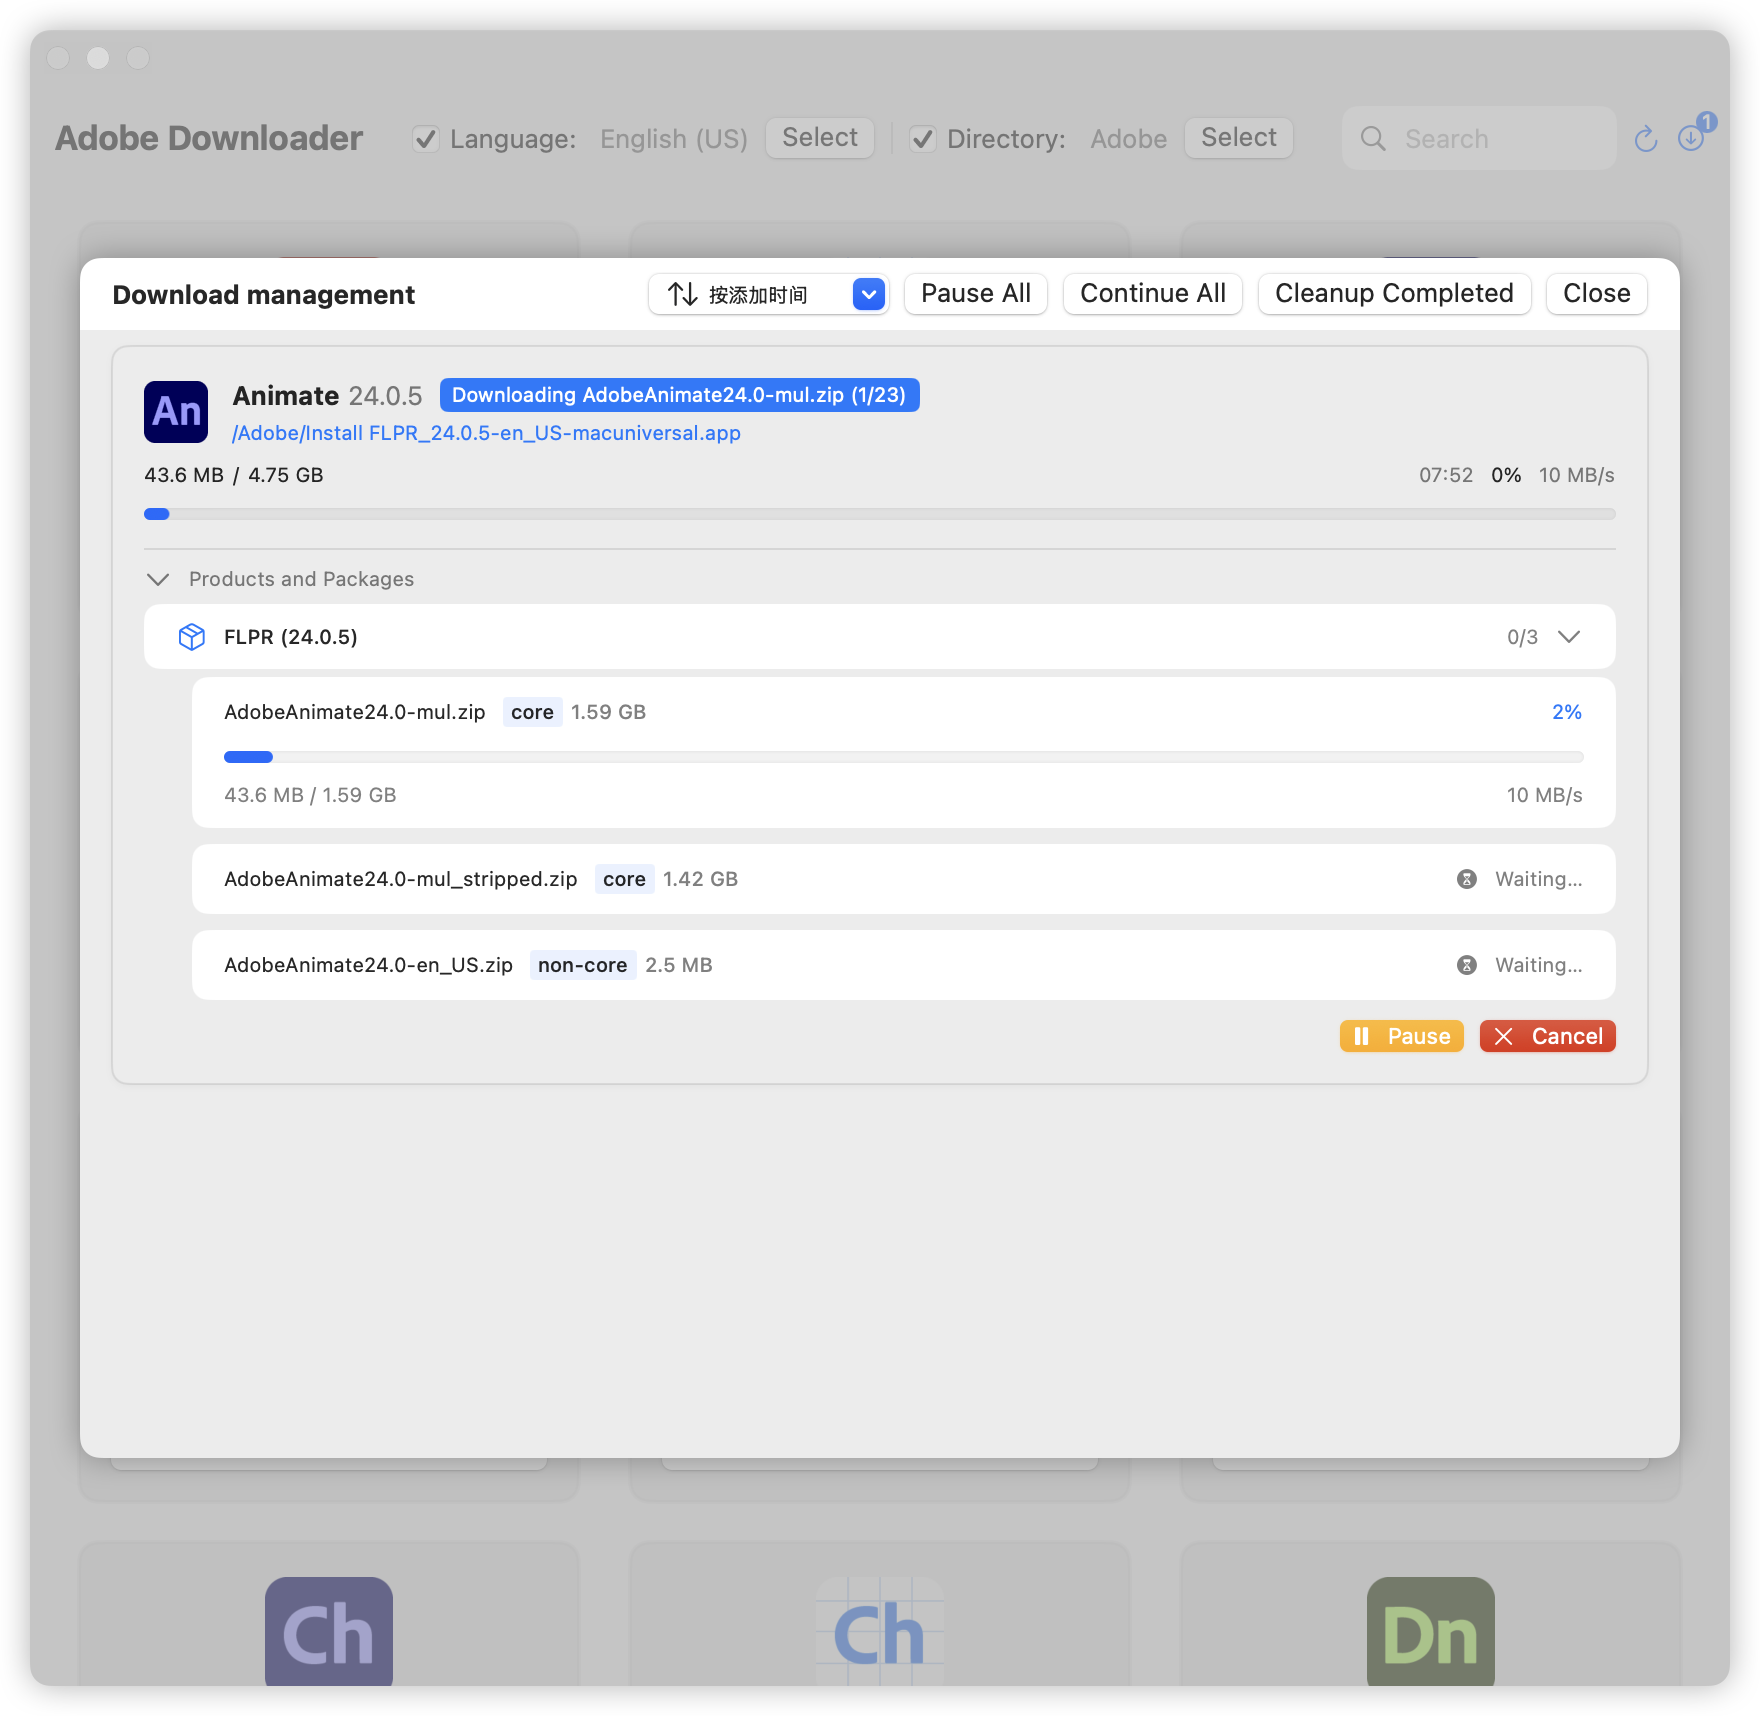
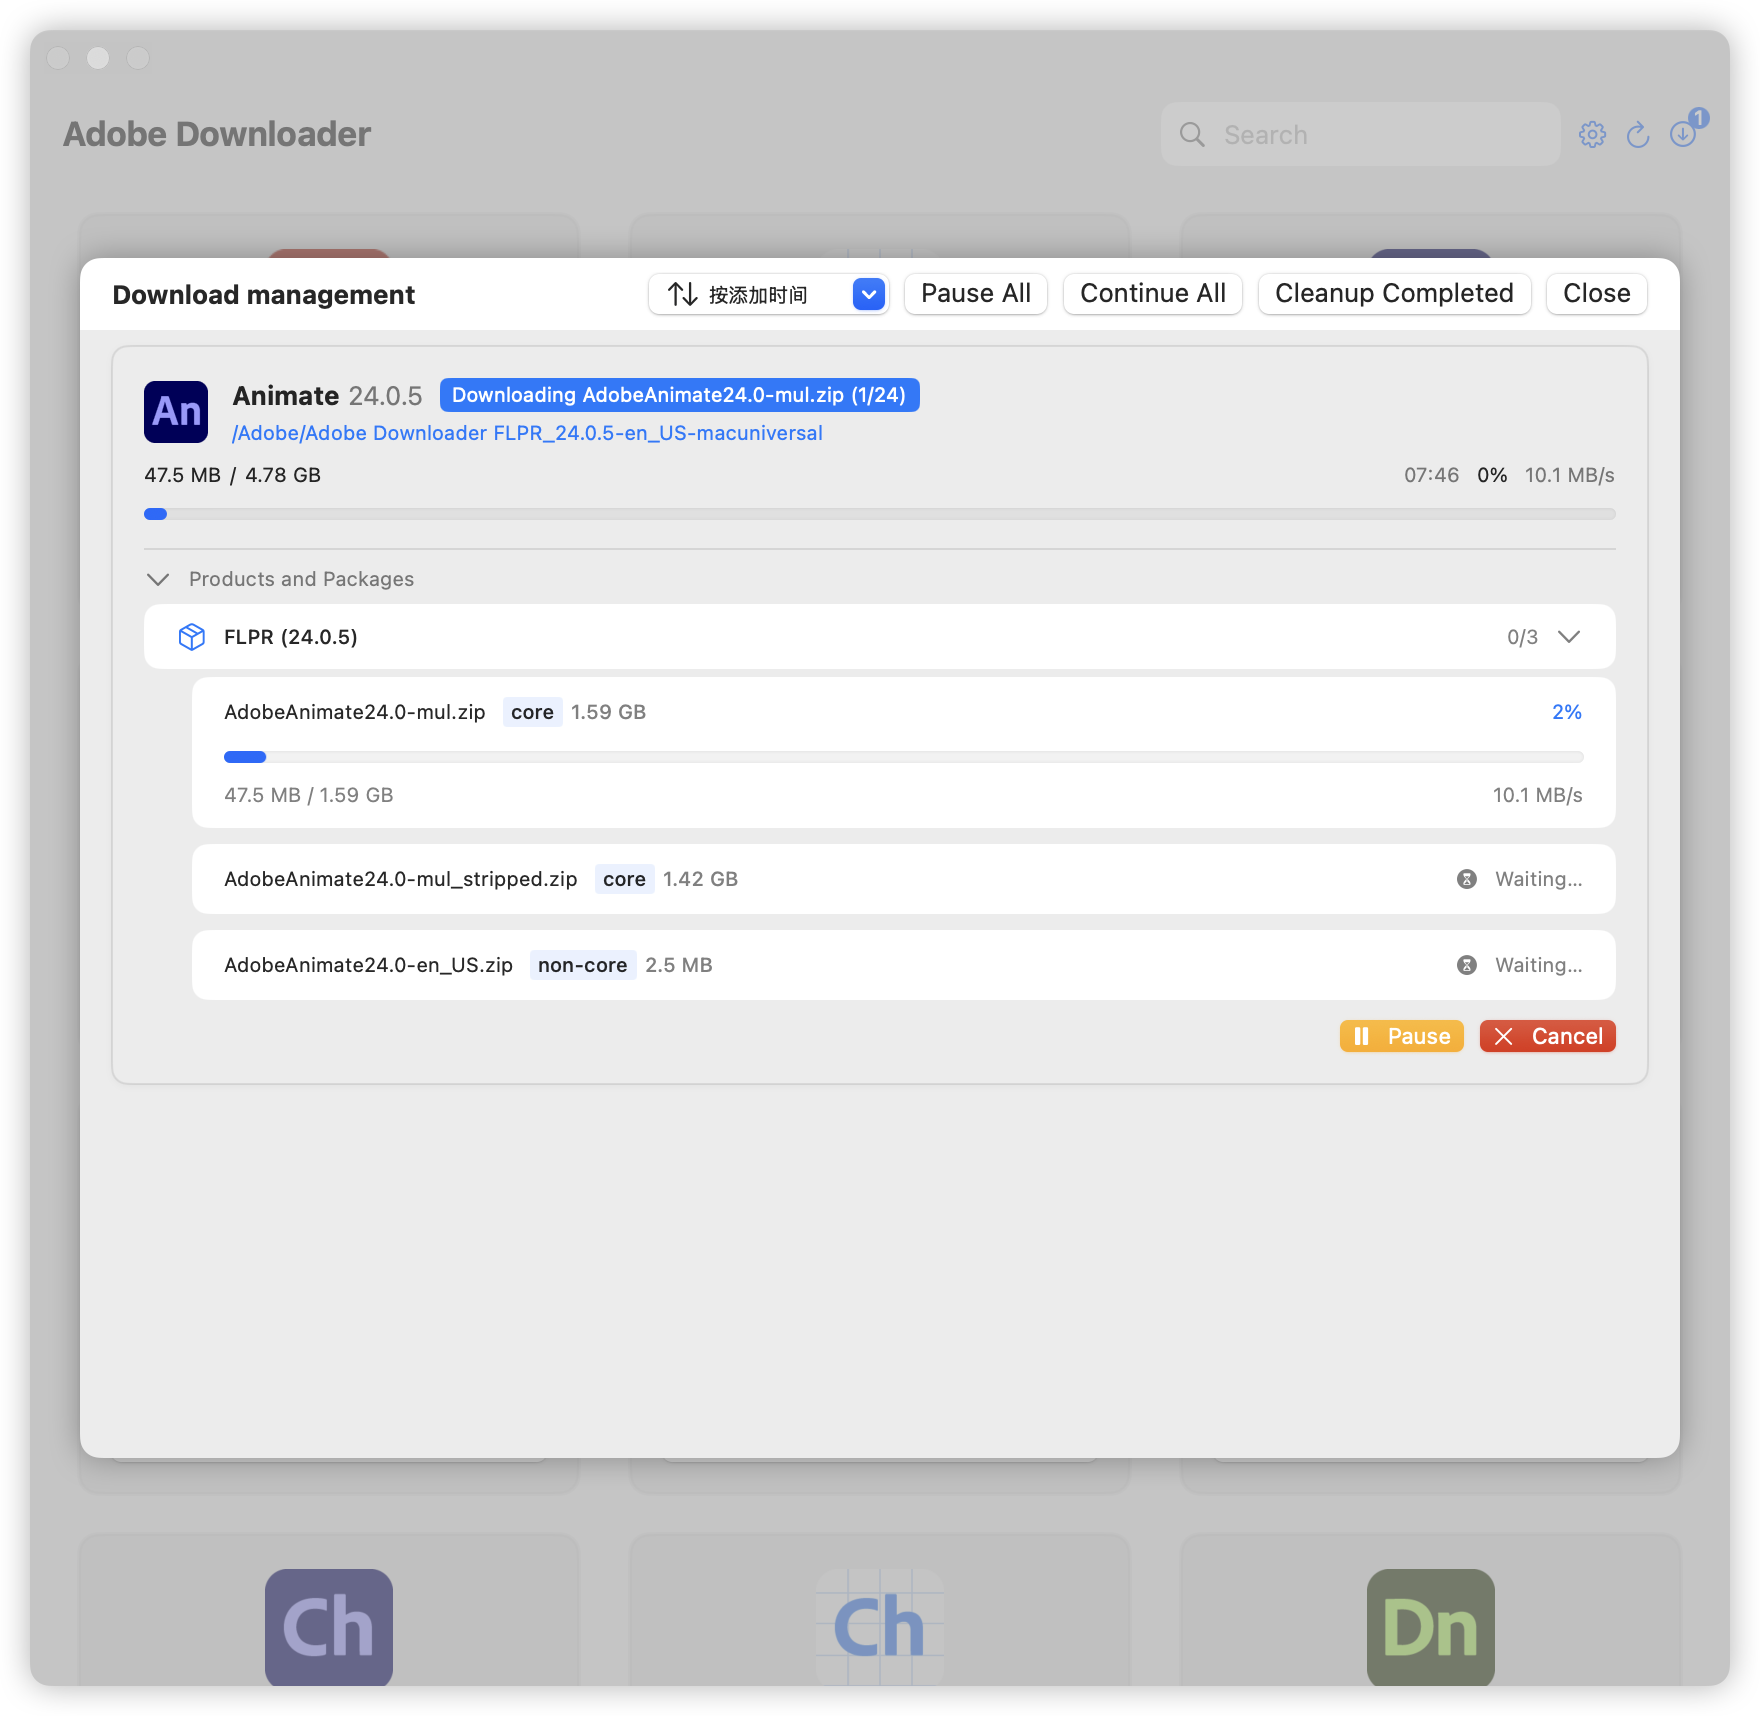
Fix: Fixed an issue where installation errors occurred in some cases.

diff --git a/Adobe Downloader/Utils/DownloadUtils.swift b/Adobe Downloader/Utils/DownloadUtils.swift
@@ -169,7 +169,7 @@ class DownloadUtils {
                 <Dependency>
                     <SAPCode>\(dependency.sapCode)</SAPCode>
                     <BaseVersion>\(dependency.version)</BaseVersion>
-                    <EsdDirectory>./\(dependency.sapCode)</EsdDirectory>
+                    <EsdDirectory>\(dependency.sapCode)</EsdDirectory>
                 </Dependency>
             """
         }.joined(separator: "\n")
@@ -181,7 +181,7 @@ class DownloadUtils {
                 <SAPCode>\(sapCode)</SAPCode>
                 <CodexVersion>\(version)</CodexVersion>
                 <Platform>\(productInfo.apPlatform)</Platform>
-                <EsdDirectory>./\(sapCode)</EsdDirectory>
+                <EsdDirectory>\(sapCode)</EsdDirectory>
                 <Dependencies>
                     \(dependencies)
                 </Dependencies>
@@ -272,6 +272,22 @@ class DownloadUtils {
         }
 
         for product in task.productsToDownload {
+            let productDir = task.directory.appendingPathComponent(product.sapCode)
+            if !FileManager.default.fileExists(atPath: productDir.path) {
+                do {
+                    try FileManager.default.createDirectory(
+                        at: productDir,
+                        withIntermediateDirectories: true,
+                        attributes: nil
+                    )
+                } catch {
+                    print("Error creating directory for \(product.sapCode): \(error)")
+                    continue
+                }
+            }
+        }
+
+        for product in task.productsToDownload {
             for package in product.packages where !package.downloaded {
                 let currentIndex = await progress.get()
                 
@@ -332,7 +348,7 @@ class DownloadUtils {
         
         return try await withCheckedThrowingContinuation { continuation in
             let delegate = DownloadDelegate(
-                destinationDirectory: task.directory.appendingPathComponent("Contents/Resources/products/\(product.sapCode)"),
+                destinationDirectory: task.directory.appendingPathComponent(product.sapCode),
                 fileName: package.fullPackageName,
                 completionHandler: { [weak networkManager] localURL, response, error in
                     if let error = error {
@@ -810,7 +826,7 @@ class DownloadUtils {
                 
                 if let currentPackage = task.currentPackage {
                     let destinationDir = task.directory
-                        .appendingPathComponent("Contents/Resources/products/\(task.sapCode)")
+                        .appendingPathComponent("\(task.sapCode)")
                     let fileURL = destinationDir.appendingPathComponent(currentPackage.fullPackageName)
                     try? FileManager.default.removeItem(at: fileURL)
                 }

diff --git a/Adobe Downloader/Views/InstallProgressView.swift b/Adobe Downloader/Views/InstallProgressView.swift
@@ -119,15 +119,16 @@ private struct LogSection: View {
     
     var body: some View {
         ScrollViewReader { proxy in
-            ScrollView(showsIndicators: false) {
-                VStack(alignment: .leading, spacing: 2) {
-                    ForEach(Array(logs.enumerated()), id: \.offset) { index, log in
+            ScrollView(showsIndicators: true) {
+                LazyVStack(alignment: .leading, spacing: 2) {
+                    ForEach(Array(logs.suffix(1000).enumerated()), id: \.offset) { index, log in
                         Text(log)
                             .font(.system(.caption, design: .monospaced))
                             .foregroundColor(.secondary)
                             .id(index)
                             .padding(.horizontal, 8)
                             .padding(.vertical, 2)
+                            .textSelection(.enabled)
                     }
                 }
                 .frame(maxWidth: .infinity, alignment: .leading)
@@ -142,8 +143,10 @@ private struct LogSection: View {
             )
             .padding(.horizontal, 20)
             .onChange(of: logs) { _, newValue in
-                withAnimation {
-                    proxy.scrollTo(newValue.count - 1, anchor: .bottom)
+                if !newValue.isEmpty {
+                    withAnimation {
+                        proxy.scrollTo(newValue.count - 1, anchor: .bottom)
+                    }
                 }
             }
         }
@@ -215,57 +218,6 @@ private struct ButtonSection: View {
         }
         .padding(.horizontal, 20)
     }
-}
-
-#Preview("安装中") {
-    InstallProgressView(
-        productName: "Adobe Photoshop",
-        progress: 0.45,
-        status: "正在安装核心组件...",
-        onCancel: {},
-        onRetry: nil
-    )
-}
-
-#Preview("准备安装") {
-    InstallProgressView(
-        productName: "Adobe Photoshop",
-        progress: 0.0,
-        status: "正在准备安装...",
-        onCancel: {},
-        onRetry: nil
-    )
-}
-
-#Preview("安装完成") {
-    InstallProgressView(
-        productName: "Adobe Photoshop",
-        progress: 1.0,
-        status: "安装完成",
-        onCancel: {},
-        onRetry: nil
-    )
-}
-
-#Preview("安装失败") {
-    InstallProgressView(
-        productName: "Adobe Photoshop",
-        progress: 0.0,
-        status: "安装失败: 权限被拒绝",
-        onCancel: {},
-        onRetry: {}
-    )
-}
-
-#Preview("在深色模式下") {
-    InstallProgressView(
-        productName: "Adobe Photoshop",
-        progress: 0.75,
-        status: "正在安装...",
-        onCancel: {},
-        onRetry: nil
-    )
-    .preferredColorScheme(.dark)
 }
 
 #Preview("安装中带日志") {

diff --git a/Adobe Downloader/NetworkManager.swift b/Adobe Downloader/NetworkManager.swift
@@ -15,7 +15,13 @@ class NetworkManager: ObservableObject {
     @Published var loadingState: LoadingState = .idle
     @Published var downloadTasks: [NewDownloadTask] = []
     @Published var installationState: InstallationState = .idle
-    @Published var installationLogs: [String] = []
+    @Published var installationLogs: [String] = [] {
+        didSet {
+            if installationLogs.count > 1000 {
+                installationLogs = Array(installationLogs.suffix(1000))
+            }
+        }
+    }
     private let cancelTracker = CancelTracker()
     internal var downloadUtils: DownloadUtils!
     internal var progressObservers: [UUID: NSKeyValueObservation] = [:]
@@ -295,7 +301,7 @@ class NetworkManager: ObservableObject {
             URLQueryItem(name: "_type", value: "xml"),
             URLQueryItem(name: "channel", value: "ccm"),
             URLQueryItem(name: "channel", value: "sti"),
-            URLQueryItem(name: "platform", value: allowedPlatform.joined(separator: ",")),
+            URLQueryItem(name: "platform", value: "osx10-64,osx10,macarm64,macuniversal"),
             URLQueryItem(name: "productType", value: "Desktop")
         ]
         

diff --git a/Adobe Downloader/Utils/InstallManager.swift b/Adobe Downloader/Utils/InstallManager.swift
@@ -3,6 +3,12 @@
 //
 //  Created by X1a0He on 2024/10/30.
 //
+/*
+    Adobe Exit Code
+    107: 架构或者版本不一致
+    103: 权限问题
+    182: 可能是文件不全或者出错了
+ */
 import Foundation
 
 actor InstallManager {
@@ -48,6 +54,9 @@ actor InstallManager {
             installProcess.executableURL = URL(fileURLWithPath: setupPath)
             installProcess.arguments = ["--install=1", "--driverXML=\(driverPath)"]
         }
+
+        let commandString = "sudo \"\(setupPath)\" --install=1 --driverXML=\"\(driverPath)\""
+        print(commandString)
 
         let outputPipe = Pipe()
         installProcess.standardOutput = outputPipe

diff --git a/Adobe Downloader/Adobe DownloaderApp.swift b/Adobe Downloader/Adobe DownloaderApp.swift
@@ -2,6 +2,7 @@ import SwiftUI
 
 @main
 struct Adobe_DownloaderApp: App {
+    @NSApplicationDelegateAdaptor(AppDelegate.self) var appDelegate
     @StateObject private var networkManager = NetworkManager()
     @State private var showBackupAlert = false
     @State private var showTipsSheet = false

diff --git a/Adobe Downloader/Commons/Structs.swift b/Adobe Downloader/Commons/Structs.swift
@@ -195,6 +195,4 @@ struct NetworkConstants {
     static let downloadHeaders = [
         "User-Agent": "Creative Cloud"
     ]
-
-    static let MAC_VOLUME_ICON_PATH = "/System/Library/CoreServices/CoreTypes.bundle/Contents/Resources/CDAudioVolumeIcon.icns"
 }

diff --git a/Adobe Downloader/AppDelegate.swift b/Adobe Downloader/AppDelegate.swift
@@ -1,0 +1,8 @@
+import Cocoa
+import SwiftUI
+
+class AppDelegate: NSObject, NSApplicationDelegate {
+    func applicationDidFinishLaunching(_ notification: Notification) {
+         NSApp.mainMenu = nil
+    }
+} 

diff --git a/readme.md b/readme.md
@@ -16,28 +16,32 @@
 > 3. If you encounter any problems, don't panic, contact [@X1a0He](https://t.me/X1a0He) on Telegram or use the Python
      version. Many thanks to [Drovosek01](https://github.com/Drovosek01) for
      the [adobe-packager](https://github.com/Drovosek01/adobe-packager)
-> 4. ⚠⚠⚠**All Adobe apps in Adobe Downloader are from official Adobe channels and are not cracked versions.**
+> 4. ⚠⚠⚠ **All Adobe apps in Adobe Downloader are from official Adobe channels and are not cracked versions.**
+> 5. ❌❌❌ **Do not use an external hard drive or any USB to store it, as this will cause permission issues, I do not have
+     the patience to solve any about permission issues**
 
 ## 📔Latest Log
 
 - For historical update logs, please go to [Update Log](update-log.md)
 
-- 2024-11-06 10:00 Update Log
+- 2024-11-06 15:15 Update Log
 
 ```markdown
-1. Added default configuration settings and prompts when the program is started for the first time
-2. Added optional architecture downloads, please select in settings
-3. Fixed the problem of version detection error (only checks whether the file exists, not whether it is complete)
-4. Removed the language selection and directory selection on the main interface and moved them to settings
-5. Added architecture prompts on the version selection page
+1. 增加程序首次启动时的默认配置设定与提示
+2. 增加可选架构下载，请在设置中进行选择
+3. 修复了版本已存在检测错误的问题 \(仅检测文件是否存在，并不会检测是否完整\)
+4. 移除主界面的语言选择和目录选择，移动到了设置中
+5. 版本选择页面增加架构提示
+6. 移除了安装程序的机制，现在不会再生成安装程序
 
 ====================
 
-1. 增加程序首次启动时的默认配置设定与提示
-2. 增加可选架构下载，请在设置中进行选择
-3. 修复了版本已存在检测错误的问题 (仅检测文件是否存在，并不会检测是否完整)
-4. 移除主界面的语言选择和目录选择，移动到了设置中
-5. 版本选择页面增加架构提示
+1. Added default configuration settings and prompts when the program is started for the first time
+2. Added optional architecture downloads, please select in settings
+3. Fixed the problem of version detection error \(only checks whether the file exists, not whether it is complete\)
+4. Removed the language selection and directory selection on the main interface and moved them to settings
+5. Added architecture prompts on the version selection page
+6. Removed the installer mechanism, and now no installer will be generated
 ```
 
 ### Language friendly

diff --git a/update-log.md b/update-log.md
@@ -1,6 +1,6 @@
 # Change Log
 
-- 2024-11-06 10:00 更新日志
+- 2024-11-06 15:15 更新日志
 
 ```markdown
 1. 增加程序首次启动时的默认配置设定与提示
@@ -8,6 +8,7 @@
 3. 修复了版本已存在检测错误的问题 \(仅检测文件是否存在，并不会检测是否完整\)
 4. 移除主界面的语言选择和目录选择，移动到了设置中
 5. 版本选择页面增加架构提示
+6. 移除了安装程序的机制，现在不会再生成安装程序
 
 ====================
 
@@ -16,6 +17,7 @@
 3. Fixed the problem of version detection error \(only checks whether the file exists, not whether it is complete\)
 4. Removed the language selection and directory selection on the main interface and moved them to settings
 5. Added architecture prompts on the version selection page
+6. Removed the installer mechanism, and now no installer will be generated
 ```
 
 - 2024-11-05 21:15 更新日志
